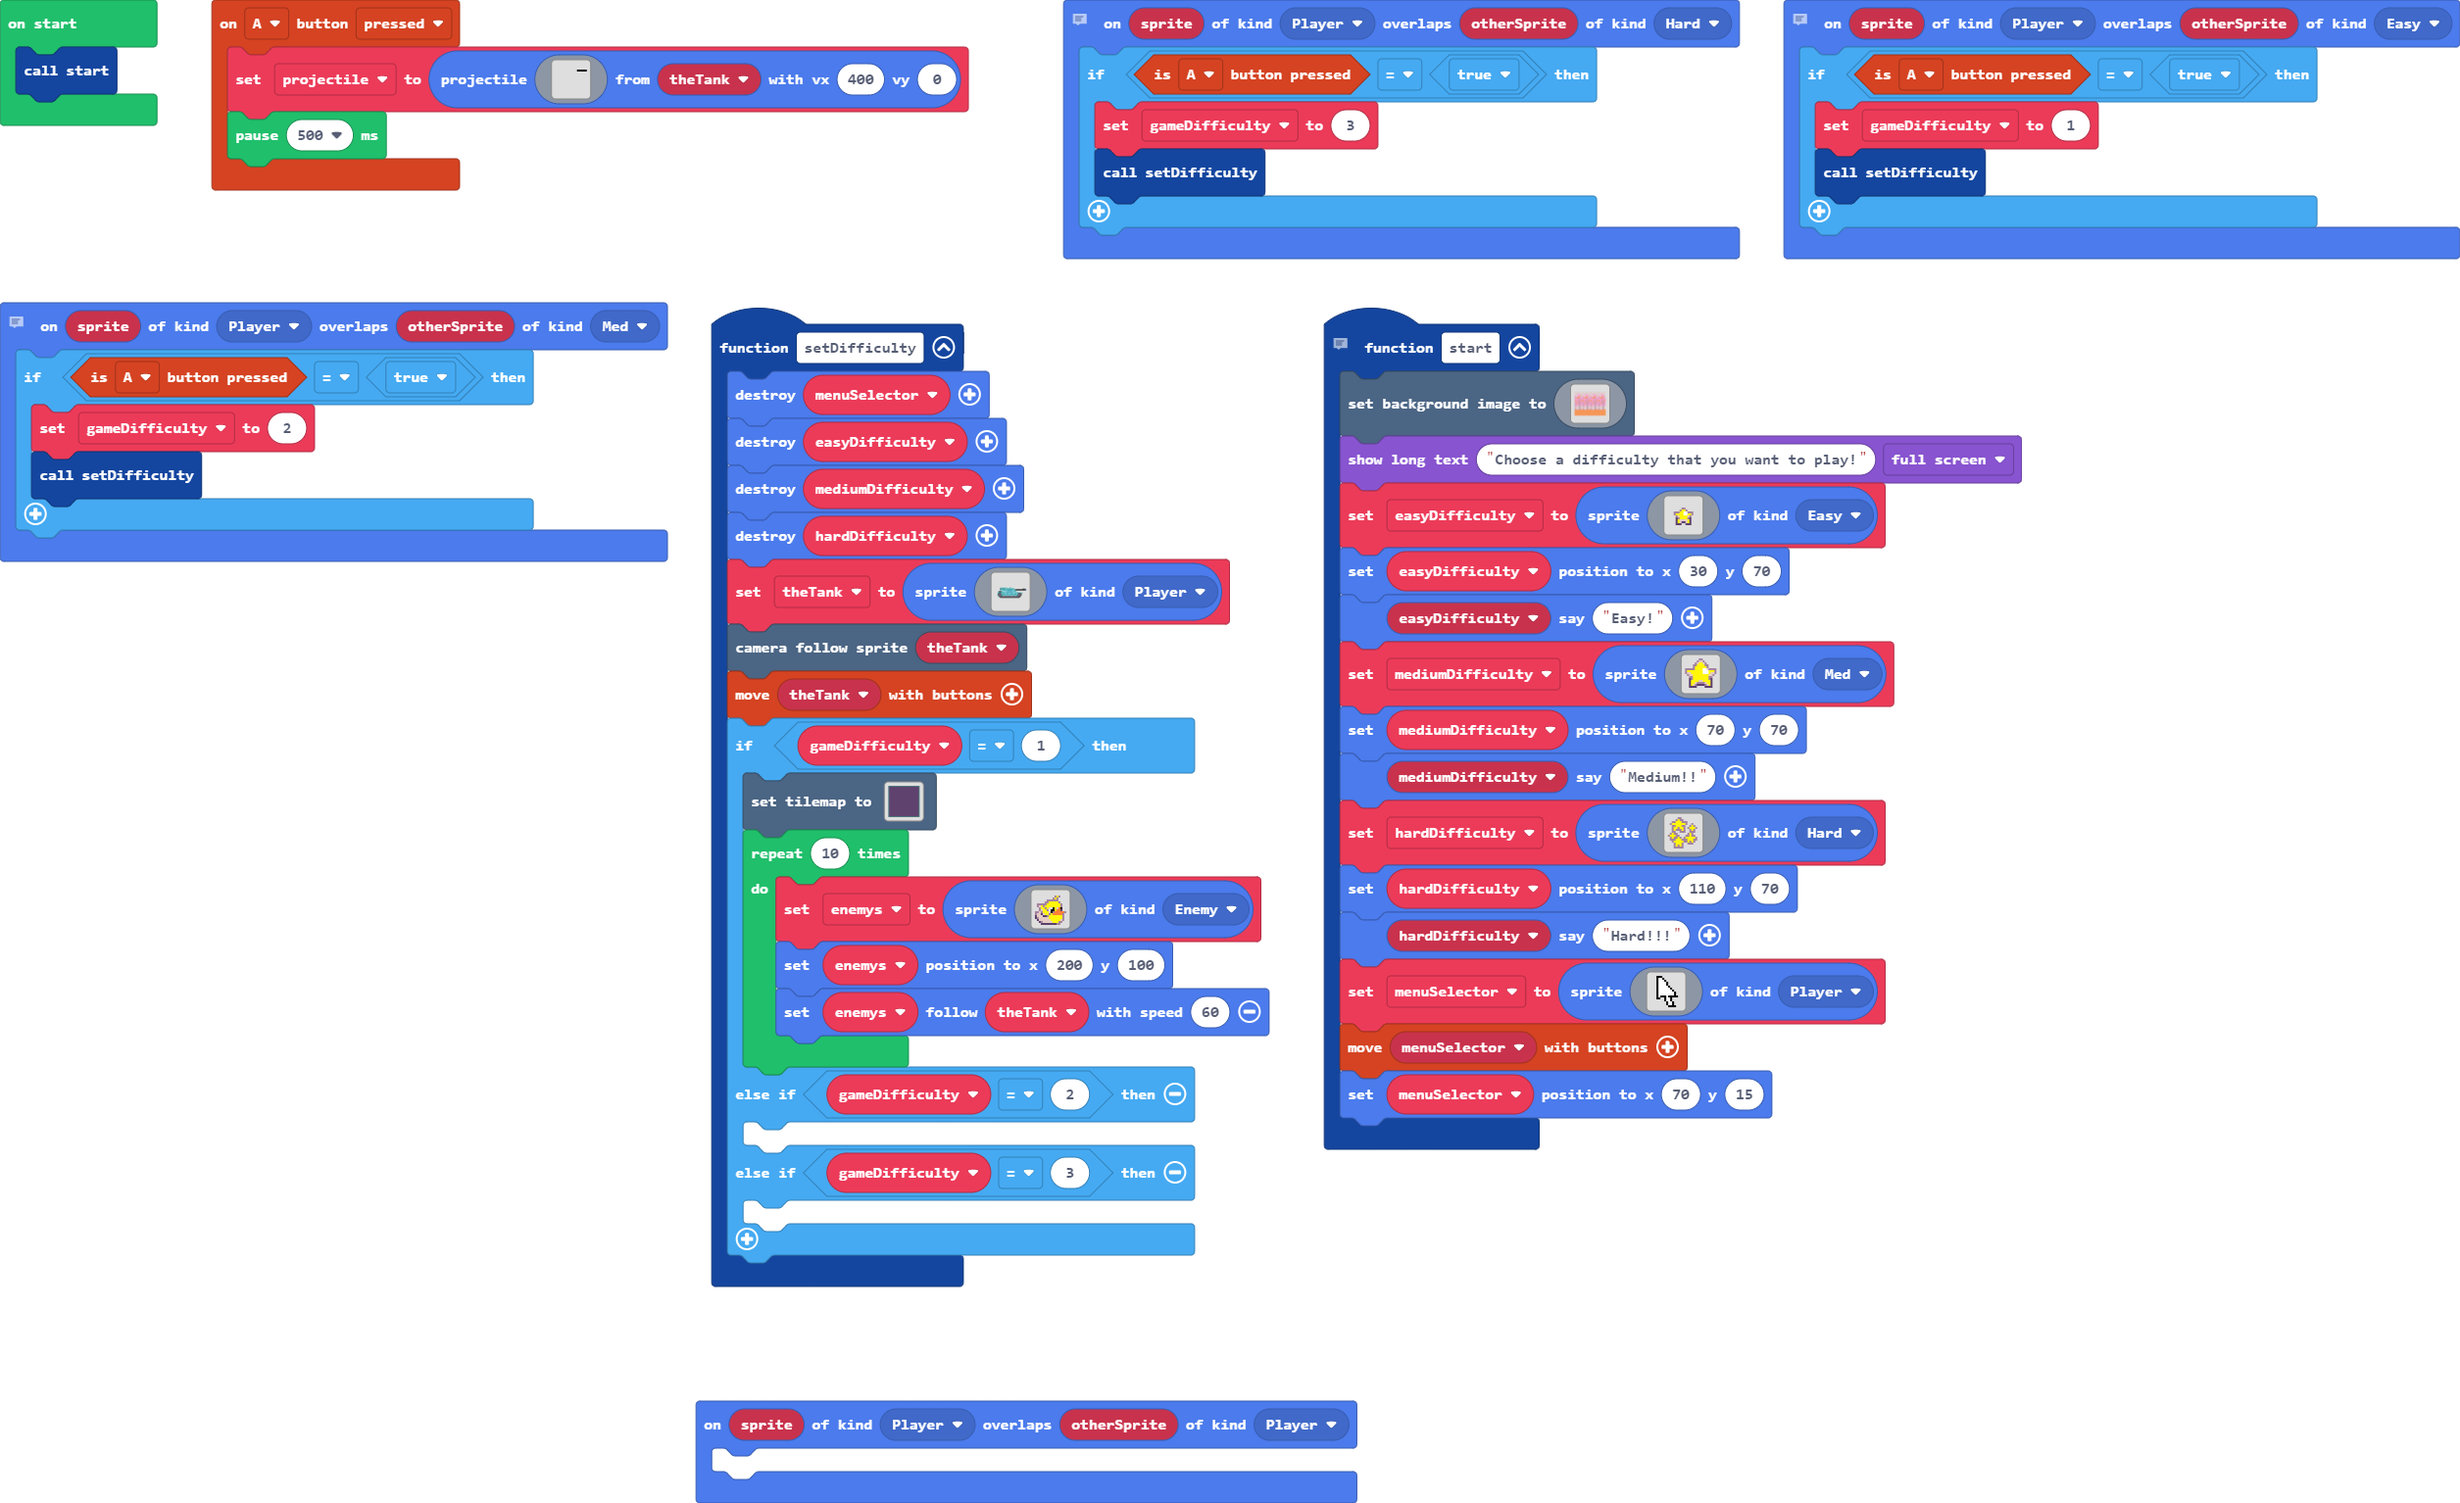
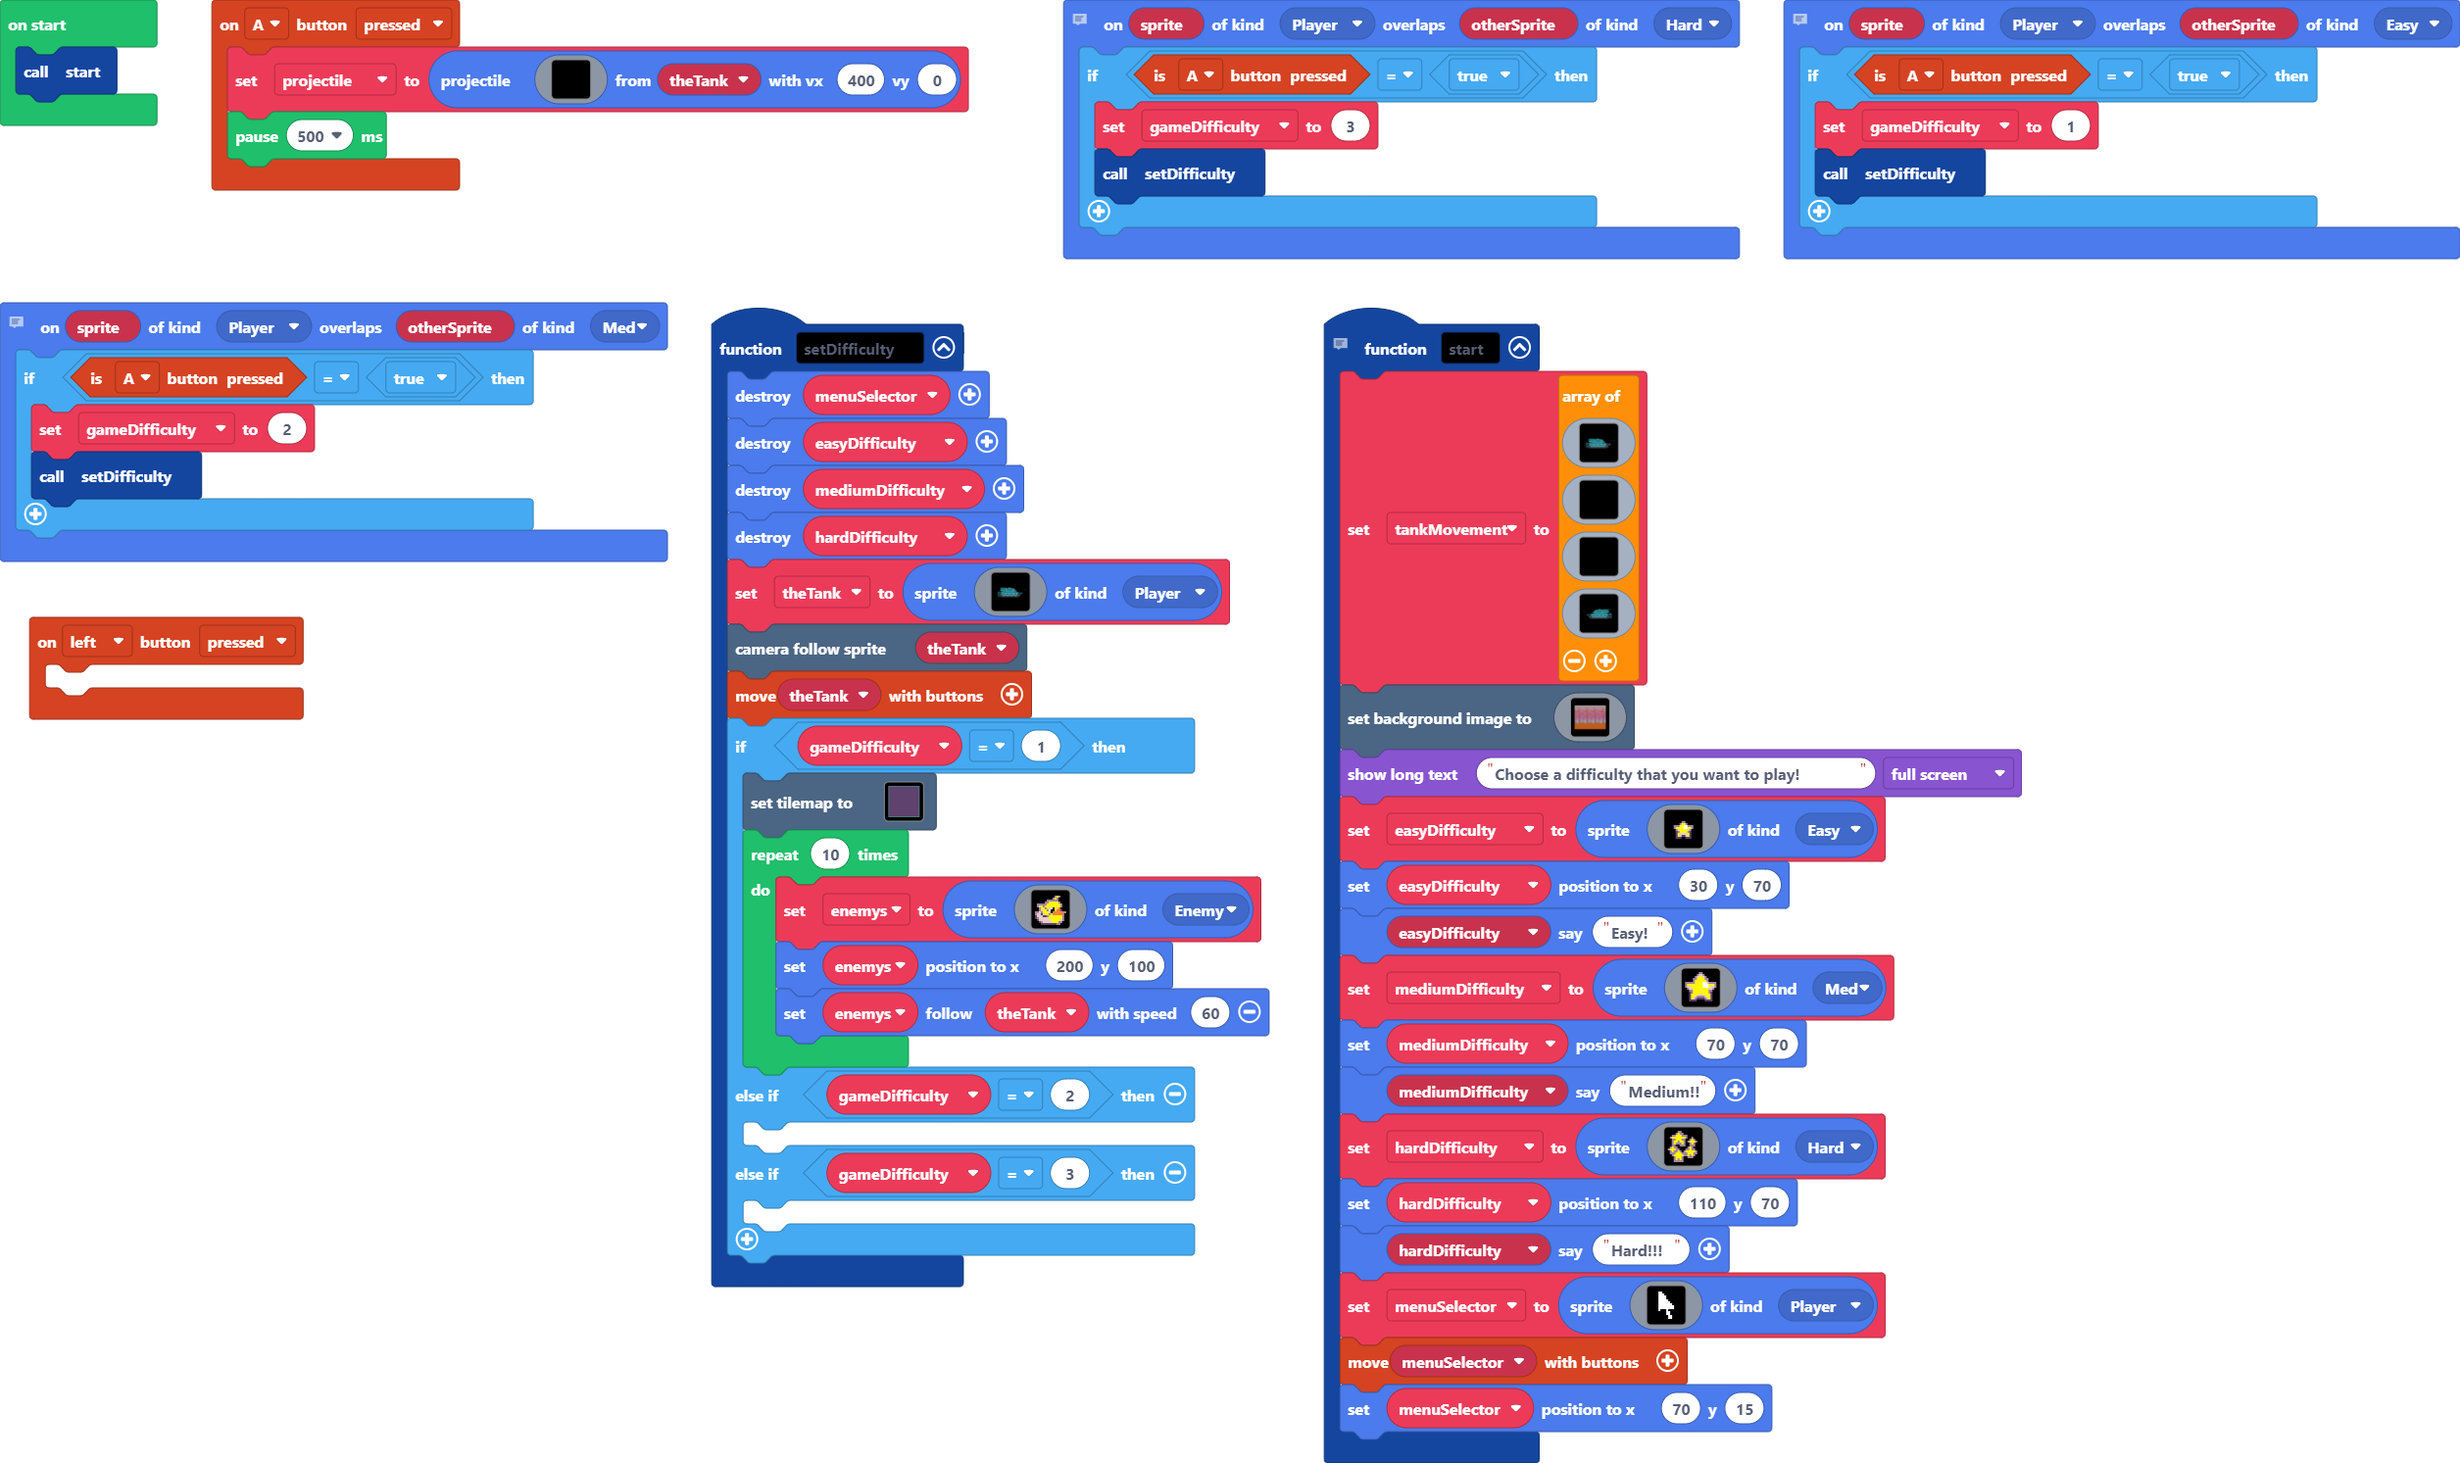
Update pxt.json, main.blocks, main.ts, images.g.jres, images.g.ts

Changed region(s): [[0.0, 0.0, 1.0, 1.0], [0.0932, 0.0, 0.404, 0.1541], [0.0, 0.0, 0.0622, 0.0924]]

diff --git a/main.ts b/main.ts
@@ -23,6 +23,9 @@ controller.A.onEvent(ControllerButtonEvent.Pressed, function () {
     projectile = sprites.createProjectileFromSprite(assets.image`tankShell`, theTank, 400, 0)
     pause(500)
 })
+controller.left.onEvent(ControllerButtonEvent.Pressed, function () {
+	
+})
 function setDifficulty () {
     menuSelector.destroy()
     easyDifficulty.destroy()
@@ -61,11 +64,81 @@ function setDifficulty () {
     	
     }
 }
-sprites.onOverlap(SpriteKind.Player, SpriteKind.Player, function (sprite, otherSprite) {
-	
-})
 // This function creates the start menu. It adds all of the difficulty choices that a player would be able to interact with to chose the difficulty they want to play. It makes the difficulty's as their own "kind" of category. It also makes the difficulty sprites say which difficulty they are.
 function start () {
+    tankMovement = [
+    assets.image`theTank`,
+    img`
+        . . . . . . . . . . . . . . . . 
+        . . . . . . . . . . . . . . . . 
+        . . . . . . . . . . . . . . . . 
+        . . . . . . . . . . . . . . . . 
+        . . . . . . . . . . . . . . . . 
+        . . . . . . . . . . . . . . . . 
+        . . . . . . . . . . . . . . . . 
+        . . . . . . . . . . . . . . . . 
+        . . . . . . . . . . . . . . . . 
+        . . . . . . . . . . . . . . . . 
+        . . . . . . . . . . . . . . . . 
+        . . . . . . . . . . . . . . . . 
+        . . . . . . . . . . . . . . . . 
+        . . . . . . . . . . . . . . . . 
+        . . . . . . . . . . . . . . . . 
+        . . . . . . . . . . . . . . . . 
+        `,
+    img`
+        . . . . . . . . . . . . . . . . 
+        . . . . . . . . . . . . . . . . 
+        . . . . . . . . . . . . . . . . 
+        . . . . . . . . . . . . . . . . 
+        . . . . . . . . . . . . . . . . 
+        . . . . . . . . . . . . . . . . 
+        . . . . . . . . . . . . . . . . 
+        . . . . . . . . . . . . . . . . 
+        . . . . . . . . . . . . . . . . 
+        . . . . . . . . . . . . . . . . 
+        . . . . . . . . . . . . . . . . 
+        . . . . . . . . . . . . . . . . 
+        . . . . . . . . . . . . . . . . 
+        . . . . . . . . . . . . . . . . 
+        . . . . . . . . . . . . . . . . 
+        . . . . . . . . . . . . . . . . 
+        `,
+    img`
+        ................................................................
+        ................................................................
+        ................................................................
+        ................................................................
+        ................................................................
+        ................................................................
+        ................................................................
+        ................................f...............................
+        ...............................999999...6666666666666...........
+        .........................666666666666666966666666666f...........
+        .8.ffff.................9669666666666666966666666666f...........
+        f8fffffffffffffffffffff96669666666666666966666666666f...........
+        f8ffffffffffffffffffff966696666666666669666666666666f...........
+        .....................96666966666666666696666666999999...........
+        ....................966669666666666666966699999.................
+        ....................6666699999999999999999.......6ffffff6.......
+        ...........................88888888888888...6666666ffff66.......
+        ................66666666666666666666666666666666666666666.......
+        ........66666666699999999999999999999999999999999966666666......
+        .........66ffffff966666669666666696666666966666669ffffff66......
+        .........6ffacecc966666669666666696666666966666669ccecaff6......
+        ..........fecacf69666666696666666966666669666666696fcacef6......
+        ..........ffebc6f966666669666666696666666966666669f6cbeff6......
+        ...........febc6ff9999999999999999999999999999999ff6cbef66......
+        ...........ffbc6fff6cbc6fff6cbc6fff6cbc6fff6cbc6fff6cbff6.......
+        ............ffcf666fcecf666fcecf666fcecf666fcecf666fcff66.......
+        .............ffccccceeeccccceeeccccceeeccccceeecccccff..........
+        ..............fffffffffffffffffffffffffffffffffffffff...........
+        ................................................................
+        ................................................................
+        ................................................................
+        ................................................................
+        `
+    ]
     scene.setBackgroundImage(img`
         dddddddddddddddddddddddddddddddddddddddddddddddddddddddddddddddddddddddddddddddddddddddddddddddddddddddddddddddddddddddddddddddddddddddddddddddddddddddddddddddd
         dddddddddddddddddddddddddddddddddddddddddddddddddddddddddddddddddddddddddddddddddddddddddddddddddddddddddddddddddddddddddddddddddddddddddddddddddddddddddddddddd
@@ -277,6 +350,7 @@ sprites.onOverlap(SpriteKind.Player, SpriteKind.Med, function (sprite, otherSpri
         setDifficulty()
     }
 })
+let tankMovement: Image[] = []
 let enemys: Sprite = null
 let hardDifficulty: Sprite = null
 let mediumDifficulty: Sprite = null

diff --git a/images.g.ts b/images.g.ts
@@ -3,6 +3,25 @@ namespace myImages {
 
     helpers._registerFactory("image", function(name: string) {
         switch(helpers.stringTrim(name)) {
+            case "image1":
+            case "tankShell":return img`
+. . . . . . . . . . . . . . . . 
+. . . . . . . . . . . . . . . . 
+. . . . . . . . . . . . . . . . 
+. . . . . . . . . . . f f f f f 
+. . . . . . . . . . . . . . . . 
+. . . . . . . . . . . . . . . . 
+. . . . . . . . . . . . . . . . 
+. . . . . . . . . . . . . . . . 
+. . . . . . . . . . . . . . . . 
+. . . . . . . . . . . . . . . . 
+. . . . . . . . . . . . . . . . 
+. . . . . . . . . . . . . . . . 
+. . . . . . . . . . . . . . . . 
+. . . . . . . . . . . . . . . . 
+. . . . . . . . . . . . . . . . 
+. . . . . . . . . . . . . . . . 
+`;
             case "image2":
             case "theTank":return img`
 ................................................................
@@ -37,25 +56,6 @@ namespace myImages {
 ................................................................
 ................................................................
 ................................................................
-`;
-            case "image1":
-            case "tankShell":return img`
-. . . . . . . . . . . . . . . . 
-. . . . . . . . . . . . . . . . 
-. . . . . . . . . . . . . . . . 
-. . . . . . . . . . . f f f f f 
-. . . . . . . . . . . . . . . . 
-. . . . . . . . . . . . . . . . 
-. . . . . . . . . . . . . . . . 
-. . . . . . . . . . . . . . . . 
-. . . . . . . . . . . . . . . . 
-. . . . . . . . . . . . . . . . 
-. . . . . . . . . . . . . . . . 
-. . . . . . . . . . . . . . . . 
-. . . . . . . . . . . . . . . . 
-. . . . . . . . . . . . . . . . 
-. . . . . . . . . . . . . . . . 
-. . . . . . . . . . . . . . . . 
 `;
         }
         return null;
